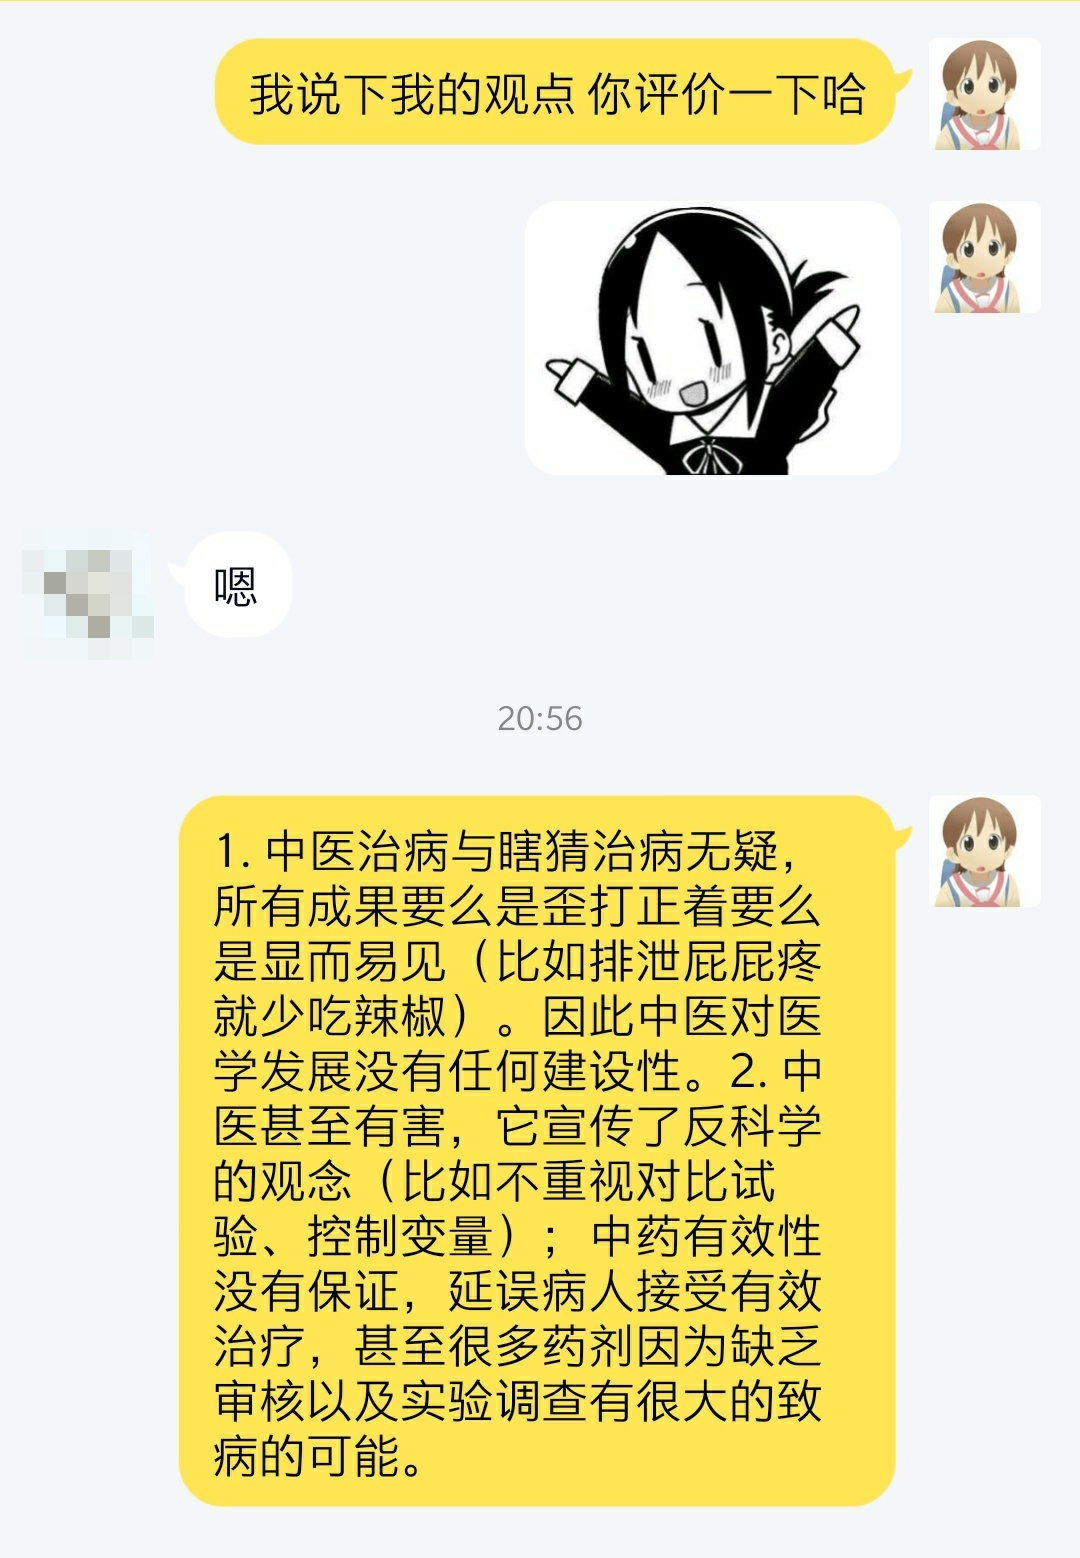
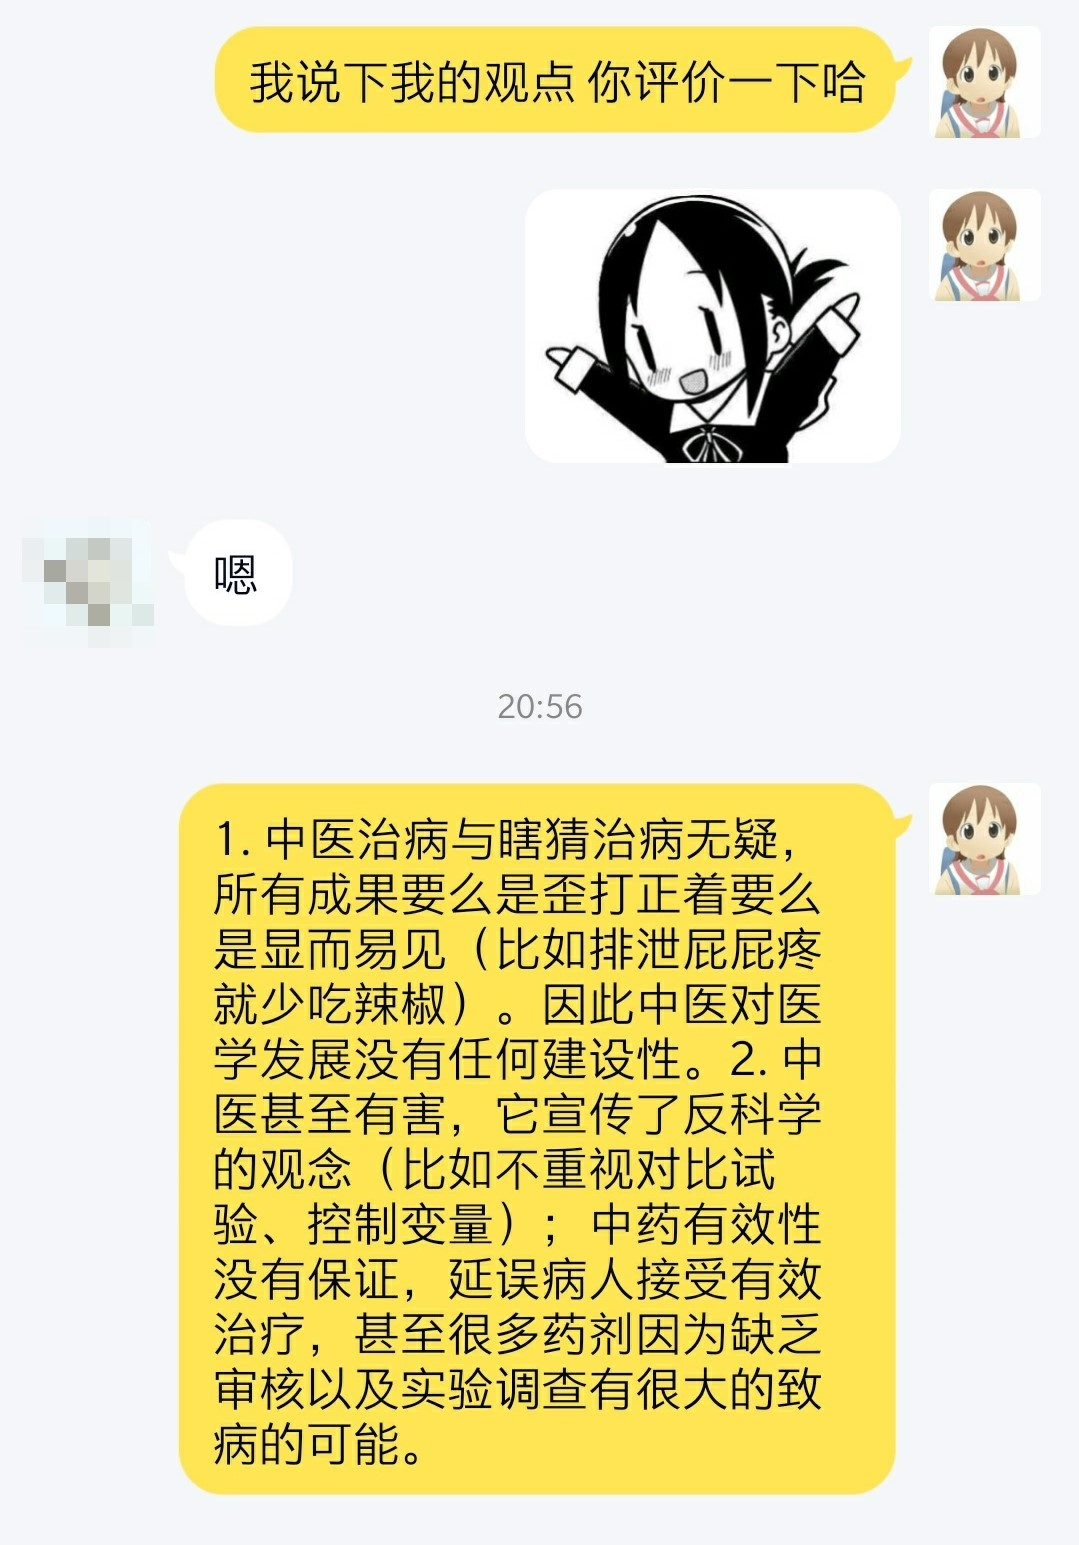
add compressed images for the discussion on tcm

diff --git a/_posts/2020-2-4-discussion-on-traditional-chinese-medicine.md b/_posts/2020-2-4-discussion-on-traditional-chinese-medicine.md
@@ -9,28 +9,28 @@ tag:
 
 <!--more-->
 
-![Image](/assets/images/tcm/tcm_01.jpg){:width="500px"}
-![Image](/assets/images/tcm/tcm_02.jpg){:width="500px"}
-![Image](/assets/images/tcm/tcm_03.jpg){:width="500px"}
-![Image](/assets/images/tcm/tcm_04.jpg){:width="500px"}
-![Image](/assets/images/tcm/tcm_05.jpg){:width="500px"}
-![Image](/assets/images/tcm/tcm_06.jpg){:width="500px"}
-![Image](/assets/images/tcm/tcm_07.jpg){:width="500px"}
-![Image](/assets/images/tcm/tcm_08.jpg){:width="500px"}
-![Image](/assets/images/tcm/tcm_a.jpg){:width="500px"}
-![Image](/assets/images/tcm/tcm_09.jpg){:width="500px"}
-![Image](/assets/images/tcm/tcm_10.jpg){:width="500px"}
-![Image](/assets/images/tcm/tcm_11.jpg){:width="500px"}
-![Image](/assets/images/tcm/tcm_b.jpg){:width="500px"}
-![Image](/assets/images/tcm/tcm_c.jpg){:width="500px"}
-![Image](/assets/images/tcm/tcm_12.jpg){:width="500px"}
-![Image](/assets/images/tcm/tcm_13.jpg){:width="500px"}
-![Image](/assets/images/tcm/tcm_14.jpg){:width="500px"}
-![Image](/assets/images/tcm/tcm_15.jpg){:width="500px"}
-![Image](/assets/images/tcm/tcm_16.jpg){:width="500px"}
-![Image](/assets/images/tcm/tcm_17.jpg){:width="500px"}
-![Image](/assets/images/tcm/tcm_18.jpg){:width="500px"}
-![Image](/assets/images/tcm/tcm_19.jpg){:width="500px"}
-![Image](/assets/images/tcm/tcm_20.jpg){:width="500px"}
-![Image](/assets/images/tcm/tcm_21.jpg){:width="500px"}
-![Image](/assets/images/tcm/tcm_22.jpg){:width="500px"}
+![Image](/assets/images/tcm/tcm_01_compressed.jpg){:width="500px"}
+![Image](/assets/images/tcm/tcm_02_compressed.jpg){:width="500px"}
+![Image](/assets/images/tcm/tcm_03_compressed.jpg){:width="500px"}
+![Image](/assets/images/tcm/tcm_04_compressed.jpg){:width="500px"}
+![Image](/assets/images/tcm/tcm_05_compressed.jpg){:width="500px"}
+![Image](/assets/images/tcm/tcm_06_compressed.jpg){:width="500px"}
+![Image](/assets/images/tcm/tcm_07_compressed.jpg){:width="500px"}
+![Image](/assets/images/tcm/tcm_08_compressed.jpg){:width="500px"}
+![Image](/assets/images/tcm/tcm_a_compressed.jpg){:width="500px"}
+![Image](/assets/images/tcm/tcm_09_compressed.jpg){:width="500px"}
+![Image](/assets/images/tcm/tcm_10_compressed.jpg){:width="500px"}
+![Image](/assets/images/tcm/tcm_11_compressed.jpg){:width="500px"}
+![Image](/assets/images/tcm/tcm_b_compressed.jpg){:width="500px"}
+![Image](/assets/images/tcm/tcm_c_compressed.jpg){:width="500px"}
+![Image](/assets/images/tcm/tcm_12_compressed.jpg){:width="500px"}
+![Image](/assets/images/tcm/tcm_13_compressed.jpg){:width="500px"}
+![Image](/assets/images/tcm/tcm_14_compressed.jpg){:width="500px"}
+![Image](/assets/images/tcm/tcm_15_compressed.jpg){:width="500px"}
+![Image](/assets/images/tcm/tcm_16_compressed.jpg){:width="500px"}
+![Image](/assets/images/tcm/tcm_17_compressed.jpg){:width="500px"}
+![Image](/assets/images/tcm/tcm_18_compressed.jpg){:width="500px"}
+![Image](/assets/images/tcm/tcm_19_compressed.jpg){:width="500px"}
+![Image](/assets/images/tcm/tcm_20_compressed.jpg){:width="500px"}
+![Image](/assets/images/tcm/tcm_21_compressed.jpg){:width="500px"}
+![Image](/assets/images/tcm/tcm_22_compressed.jpg){:width="500px"}
